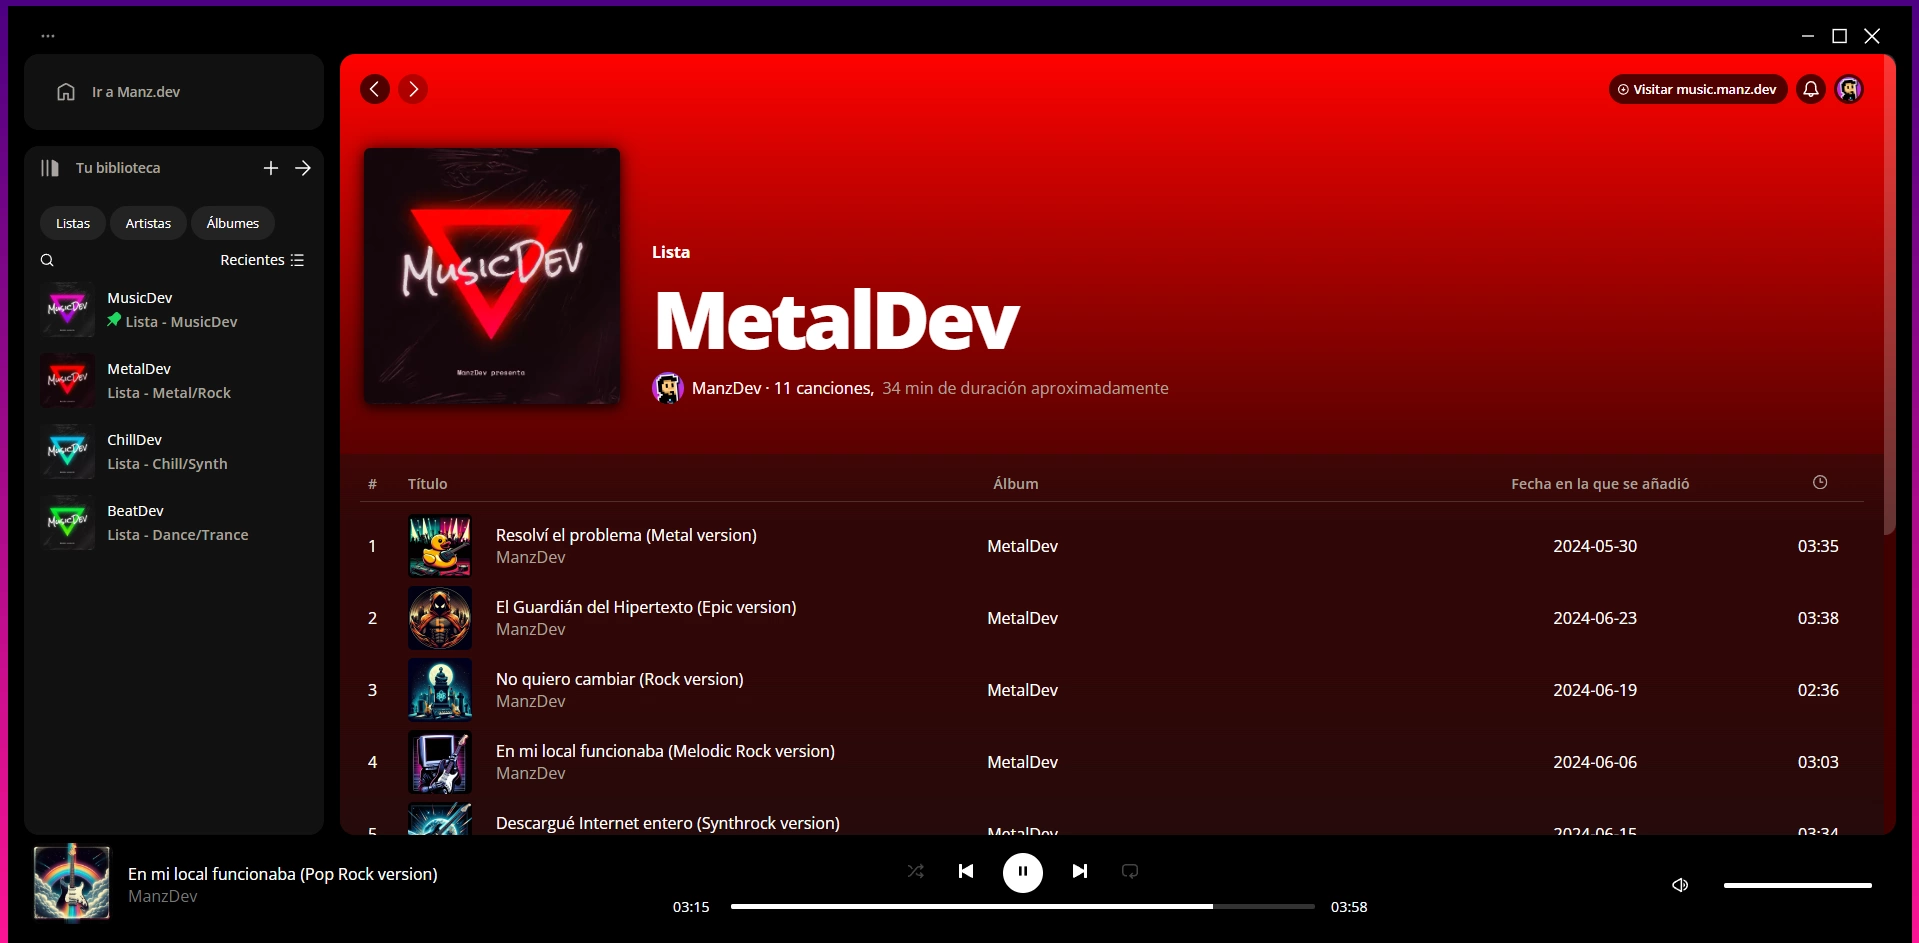
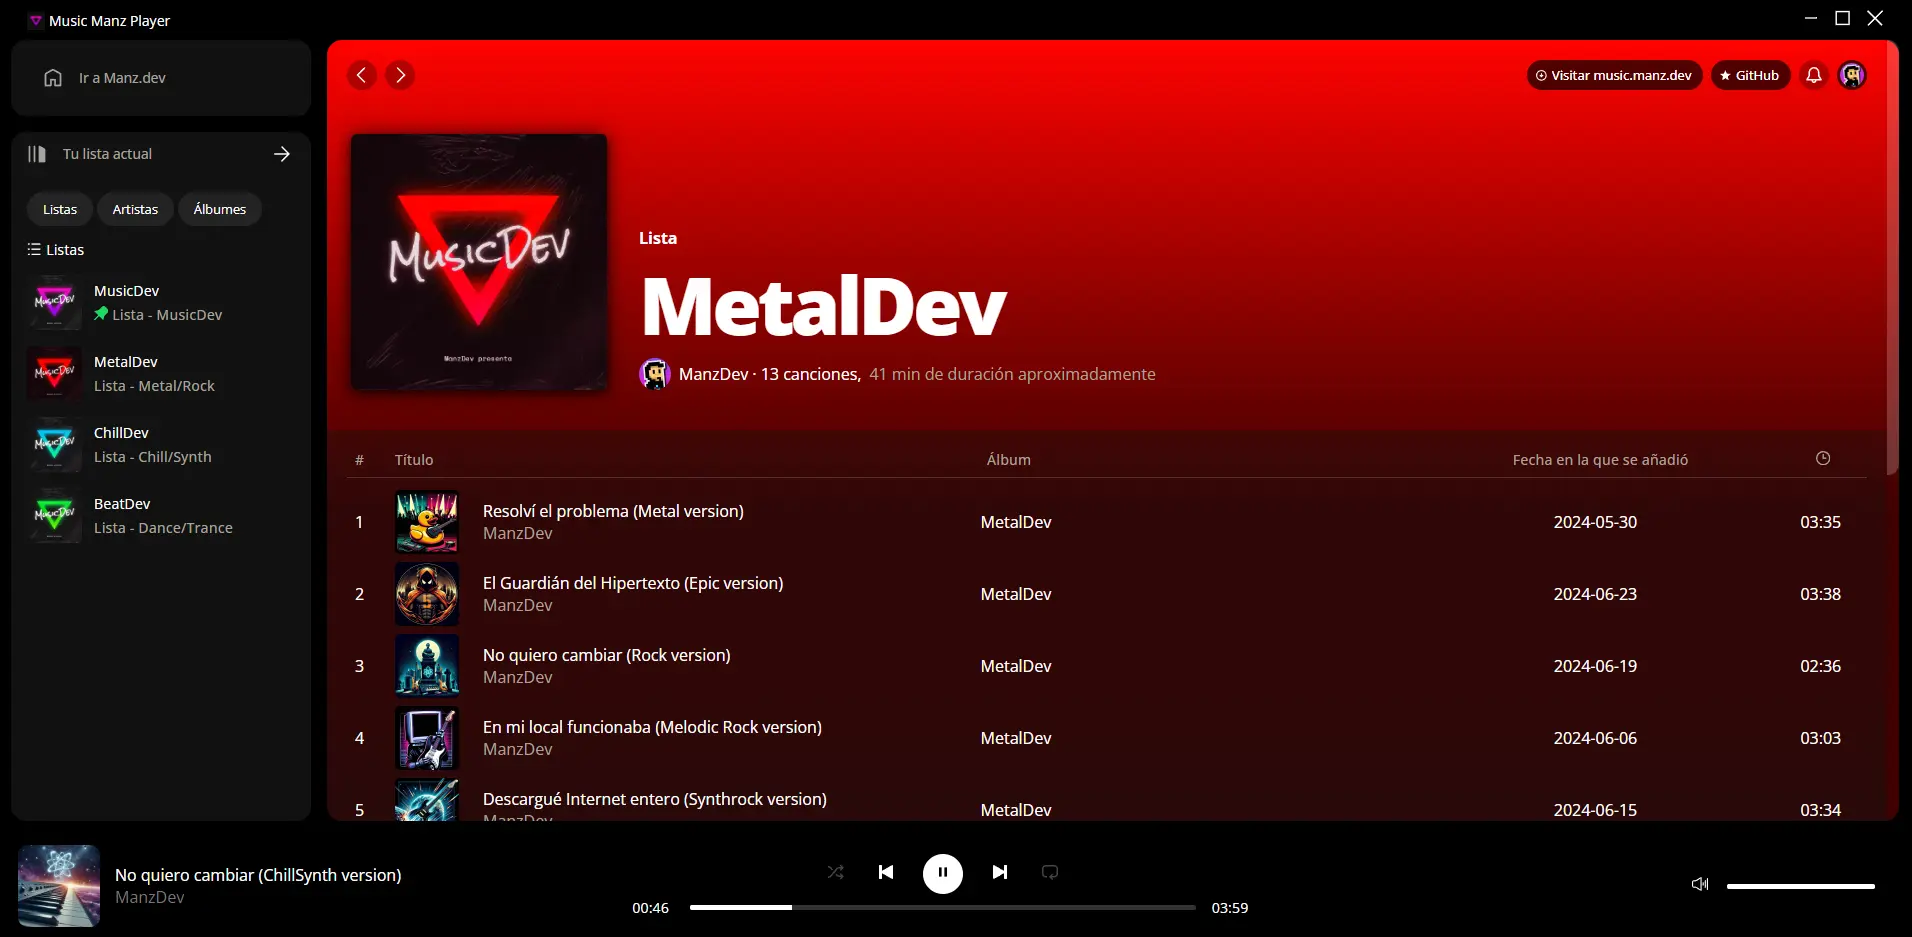
Update README

diff --git a/README.md b/README.md
@@ -4,6 +4,7 @@
 **Music Manz Player** es un clon de la UI de Spotify, construido en Astro utilizando CSS y Javascript vanilla y emitido en directo en [mi canal de Twitch](https://twitch.tv/ManzDev) y resubido a [mi canal de YouTube](https://www.youtube.com/playlist?list=PLx5xbrpW6nXiPRXklsQKiDESH_3tJlLWK).
 
 ![Music Manz Player](music-manz-player.webp)
+![Music Manz Player (Song)](music-manz-song.webp)
 
 El objetivo de este proyecto es aprender a utilizar Astro, Javascript vanilla y CSS vanilla con un proyecto real, con canciones que hicimos nosotros mismos utilizando Suno, a raiz del proyecto [music.manz.dev](https://music.manz.dev).
 
@@ -16,23 +17,19 @@ El objetivo de este proyecto es aprender a utilizar Astro, Javascript vanilla y 
 ### Prioritarias
 
 - Reorganizar código en Astro
-- Implementar el shuffle (random)
 - Añadir permalinks con anchor para acceder a listas especificas
 
 ### No prioritarias
 
 - Implementar un skeleton para cuando esté cargando
-- Animaciones y feedback al usuario en controles
 - Memoizar las funciones de actualización del timeUpdate
 - Implementar flechas (botones) de cambiar de lista
-- Responsive para adaptar a pantalla (posponer al final)
-
-### Adicionales (en el futuro)
-
-- Buscador de canciones
 
 ### Completadas
 
+- [X] Implementar responsive
+- [X] Implementar el shuffle (random)
+- [X] Animaciones al mostrar covers de canciones
 - [X] Personalizar la barra de scroll
 - [X] Barra de progreso cuando reproduces la canción
 - [X] Barra de volumen
